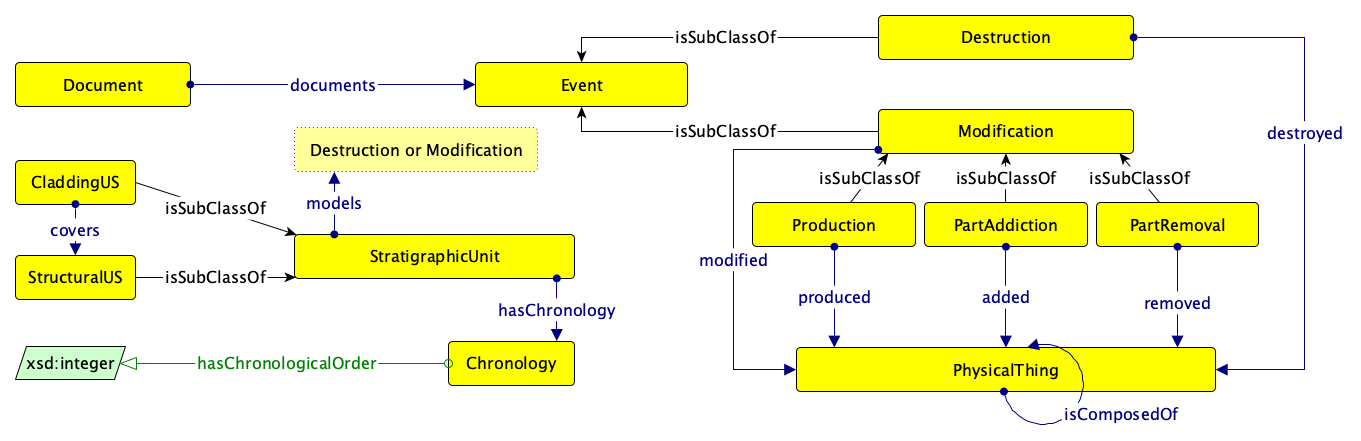
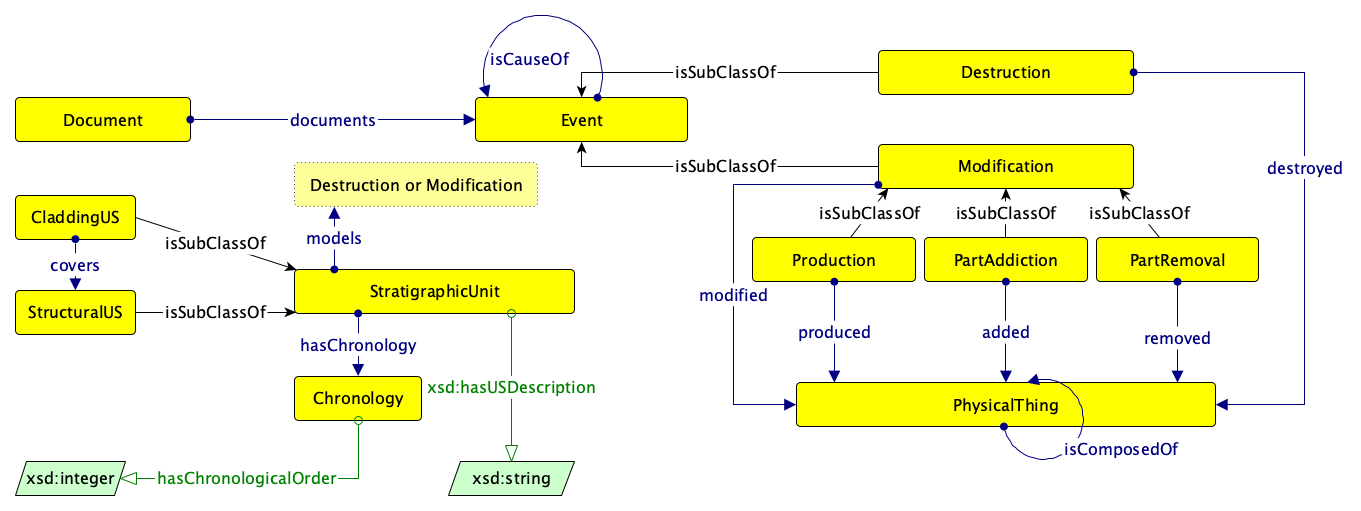
modelet second samod iteration

diff --git a/samod/iter-2/README.md b/samod/iter-2/README.md
@@ -20,7 +20,8 @@ Physical objects may undergo and be modified by different events: for instance, 
 
 *Competency Questions - SPARQL Query*
 
-1.
-2.
-3.
+With `PREFIX rdf: <http://www.w3.org/1999/02/22-rdf-syntax-ns#>` and `PREFIX : <https://w3id.org/cnr-ispc/ontology/branco#>`
 
+1. `SELECT ?us ?description WHERE {?event ?p :domus-b-southern-wall. ?event a ?event_class. ?event_class rdfs:subClassOf* :Event. ?us :models ?event. ?us :hasChronology ?chron. ?chron :hasChronologicalOrder ?order . ?us :hasUSDescription ?description} ORDER BY ?order`
+2. `SELECT ?us ?description WHERE { ?event ?p :domus-b-northern-wall. ?event a ?event_class. ?event_class rdfs:subClassOf* :Event. ?us :models ?event. ?us :hasChronology ?chron. ?chron :hasChronologicalOrder ?order . ?us :hasUSDescription ?description} ORDER BY ?order`
+3. `SELECT ?us ?description WHERE { :event-earthquake-62ad :isCauseOf ?event. ?us :models ?event. ?us :hasUSDescription ?description}`

diff --git a/samod/iter-1/README.md b/samod/iter-1/README.md
@@ -21,6 +21,8 @@ Every physical object can be digitised in a data object, which may contain diffe
 
 *Competency Questions - SPARQL Query*
 
+With: `PREFIX : <https://w3id.org/cnr-ispc/ontology/branco#> `
+
 1. `SELECT ?campaign WHERE {?campaign :digitized :domus-a}`
 2. `SELECT ?3dmodel WHERE {?campaign :digitized :domus-a. ?campaign :hasCreated ?3dmodel.}`
 3. `SELECT ?us WHERE {?reconstruction :refersTo :domus-a. ?reconstruction :hasComponent ?us.}`
